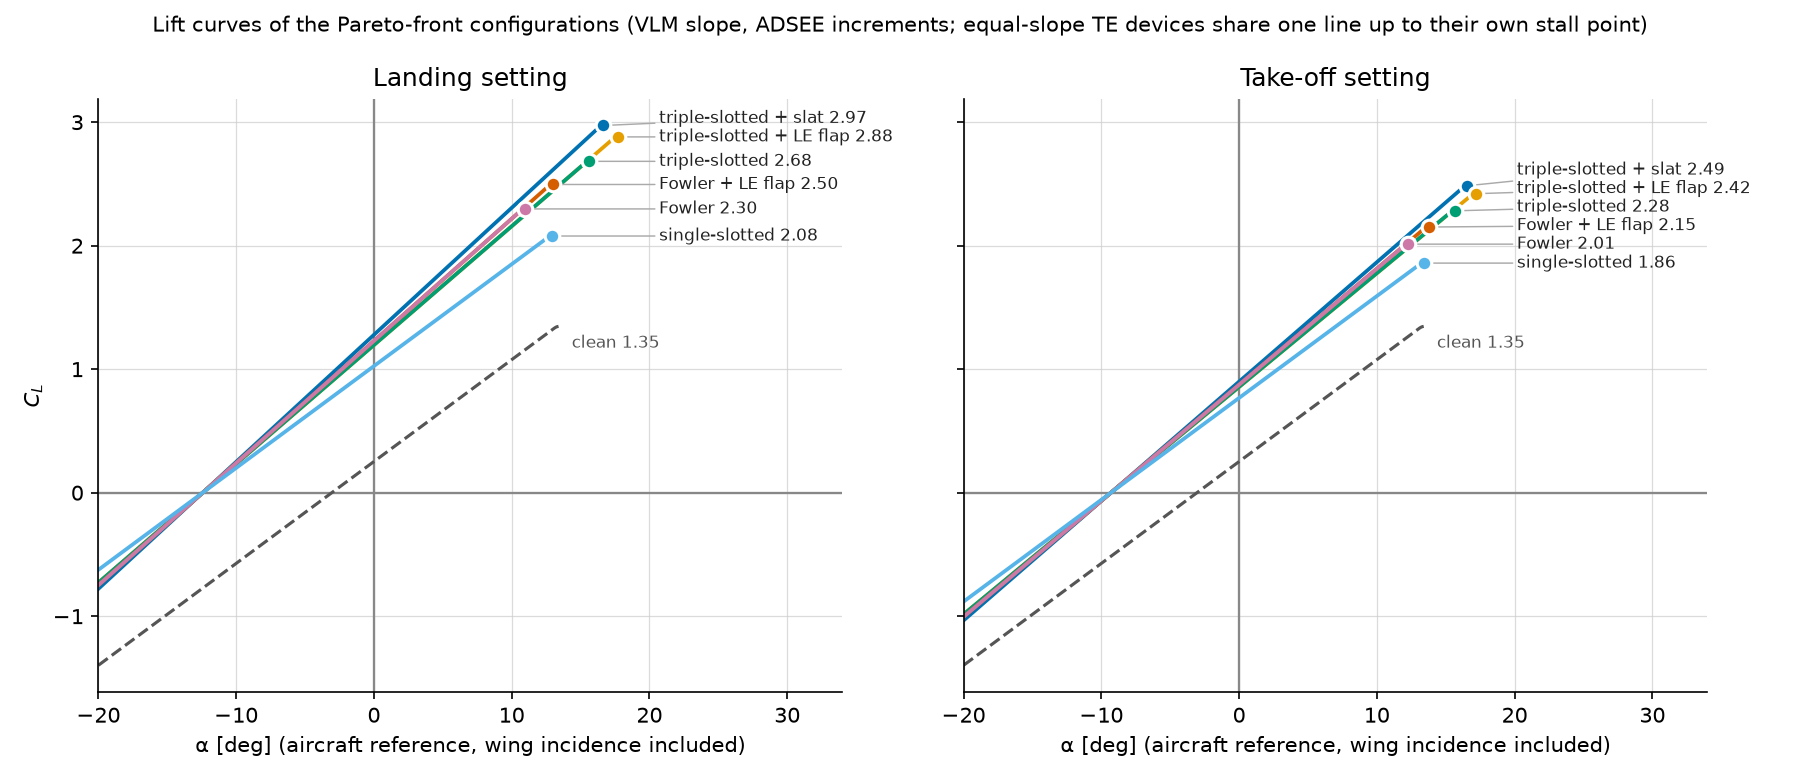
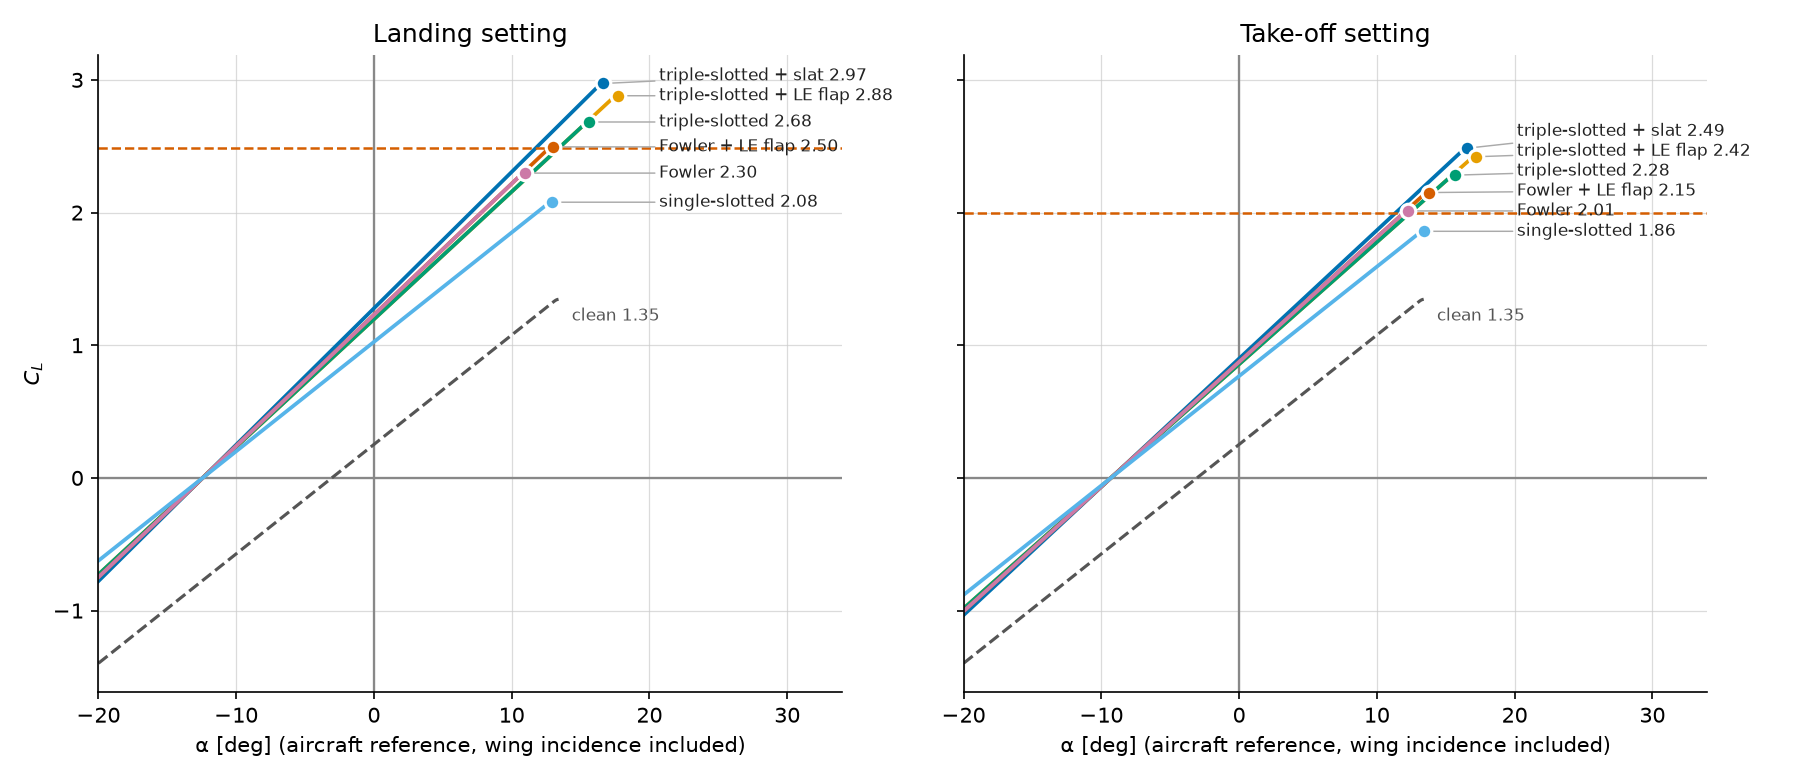
Changes to the plots

diff --git a/wp2/src/b12wp2/plots/hld.py b/wp2/src/b12wp2/plots/hld.py
@@ -84,7 +84,6 @@ def plot_heatmap(df: pd.DataFrame, cl_max_clean: float, req: float | None, out_d
     ax.tick_params(which="both", length=0)
     for s in ax.spines.values():
         s.set_visible(False)
-    ax.set_title(f"Landing $C_{{L,max}}$ per configuration (clean wing {cl_max_clean:.2f})")
     ax.set_ylabel("trailing-edge device")
     fig.colorbar(im, ax=ax, label="$C_{L,max}$ landing", fraction=0.04, pad=0.02)
     fig.tight_layout()
@@ -114,8 +113,7 @@ def plot_cl_max_vs_complexity(
     ax.annotate(f"clean wing {cl_max_clean:.2f}", (1.0, cl_max_clean), xycoords=("axes fraction", "data"),
                 xytext=(-4, 4), textcoords="offset points", fontsize=8, color=C_CLEAN, ha="right")
     _req_line(ax, req, "required $C_{L,max}$ landing")
-    ax.set(xlabel="mechanism complexity rank (TE + LE, qualitative)", ylabel="$C_{L,max}$ landing",
-           title="Maximum lift vs. complexity")
+    ax.set(xlabel="mechanism complexity rank (TE + LE, qualitative)", ylabel="$C_{L,max}$ landing")
     ax.set_xticks(range(int(df["complexity"].min()), int(df["complexity"].max()) + 1))
     ax.legend(fontsize=8, frameon=False, loc="upper left")
     _style_axes(ax, horizontal_zero=False, vertical_zero=False)
@@ -177,8 +175,6 @@ def plot_lift_curves(
         a.set(xlabel="α [deg] (aircraft reference, wing incidence included)", title=title)
         _style_axes(a)
     ax[0].set_ylabel("$C_L$")
-    fig.suptitle("Lift curves of the Pareto-front configurations (VLM slope, ADSEE increments; "
-                 "equal-slope TE devices share one line up to their own stall point)", fontsize=10)
     fig.tight_layout()
     fig.savefig(out_dir / "lift_curves.png", dpi=DPI)
     plt.close(fig)
@@ -216,7 +212,7 @@ def plot_planform(planform: hs.Planform, layout: Layout, out_dir: Path) -> None:
     ax.set_xlim(-0.5, bh * 1.12)
     ax.set_ylim(x_at(1, 1) + 0.6, -0.8)
     ax.set_aspect("equal")
-    ax.set(xlabel="y [m]", ylabel="x [m]", title="High-lift device layout (right half-wing)")
+    ax.set(xlabel="y [m]", ylabel="x [m]")
     ax.legend(fontsize=8, frameon=False, loc="lower left", ncol=3)
     for s in ("top", "right"):
         ax.spines[s].set_visible(False)

diff --git a/wp2/src/b12wp2/config/hld.py b/wp2/src/b12wp2/config/hld.py
@@ -75,7 +75,7 @@ REAR_SPAR = 0.7
 FLAP_CHORD_RATIO = 1.0 - REAR_SPAR  # c_f / c
 SLAT_CHORD_RATIO = FRONT_SPAR  # c_s / c
 
-# --- requirements from WP1 (None = not yet available, checks skipped) ---
+# --- requirements from WP1 ---
 
-CL_MAX_L_REQ: float | None = None
-CL_MAX_TO_REQ: float | None = None
+CL_MAX_L_REQ: float | None = 2.49
+CL_MAX_TO_REQ: float | None = 2
